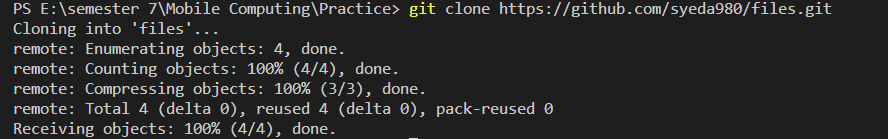
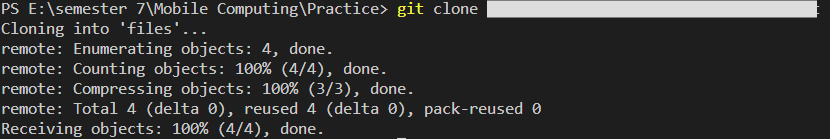
adding git log and git clone content also images

diff --git a/index.html b/index.html
@@ -117,7 +117,7 @@
             <li>git add</li>
             <li>git status</li>
             <li>git commit</li>
-            <li>git reset</li>
+            <li>git log</li>
             <li>git clone</li>
             <li>git push</li>
             <li>git pull</li>
@@ -170,6 +170,32 @@
             </p>
             <img src="/images/gitstatus.png" style="display:flex ; height: 12rem; width:35rem"> 
            </li>
+           <li class="gitCommandsLi">
+            <h3>git commit</h3>
+            <p class="sections_p">
+                Now after adding files, we are ready to move from stage to commit for our repository.
+                Adding commits keep track of our progress and changes as we work. Git considers each commit change point or "save point". It is a point in the project you can go back to if you find a bug, or want to make a change.
+                When we commit, we should always include a message.
+                By adding clear messages to each commit, it is easy for yourself (and others) to see what has changed and when. To add message -m option is used.
+            </p>
+            <img src="/images/gitcommit.png" style="display:flex ; height: 15rem; width:50rem"> 
+        </li>
+        <li class="gitCommandsLi">
+            <h3>git log</h3>
+            <p class="sections_p">
+                git log shows the history of all the changes made in master branch or specified branch
+            </p>
+            <img src="/images/gitlog.png" style="display:flex ; height: 15rem; width:50rem"> 
+        </li>
+        <li class="gitCommandsLi">
+            <h3>git clone</h3>
+            <p class="sections_p">
+                git clone is a Git command line utility which is used to target an existing repository and create a clone, or copy of the target repository.
+                The original repository can be located on the local filesystem or on remote machine accessible supported protocols. The git clone command copies an existing Git repository.
+                Here the shaded area contains the https link of your remote repository. you can copy the address from github website. 
+            </p>
+            <img src="/images/gitclone.png" style="display:flex; height:15rem; width:50rem">
+        </li>
         </ol>
     </div>
 
